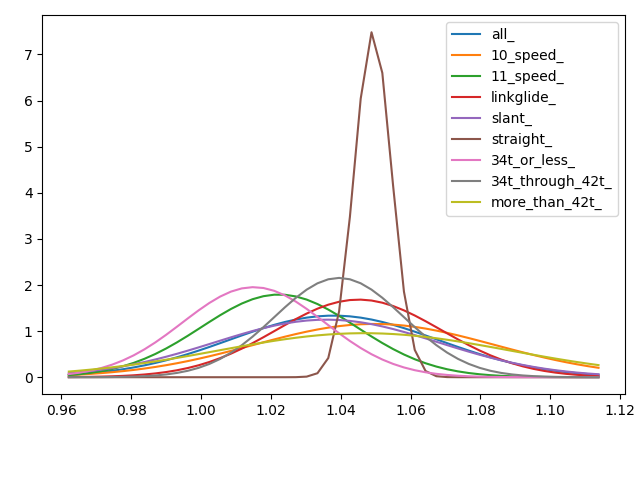
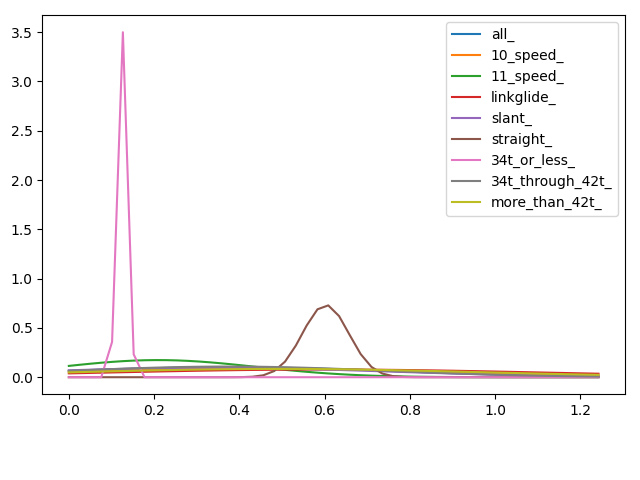
max_chain_angle dists

diff --git a/2-analyze_supported_combos.py b/2-analyze_supported_combos.py
@@ -228,4 +228,15 @@ for i,prefix in enumerate(prefixes):
 
 plt.legend()
 
+plt.savefig(f"combo_analysis/motion_multiplier_dists.png")
+
+plt.clf()
+x = np.linspace(0, max_chain_angle_max)
+
+for i,prefix in enumerate(prefixes):
+  curve = scipy.stats.norm(max_chain_angle_avgs[i], max_chain_angle_stdevs[i])
+  plt.plot(x, curve.pdf(x)/10, label=prefix)
+
+plt.legend()
+
 plt.savefig(f"combo_analysis/max_chain_angle_dists.png")
